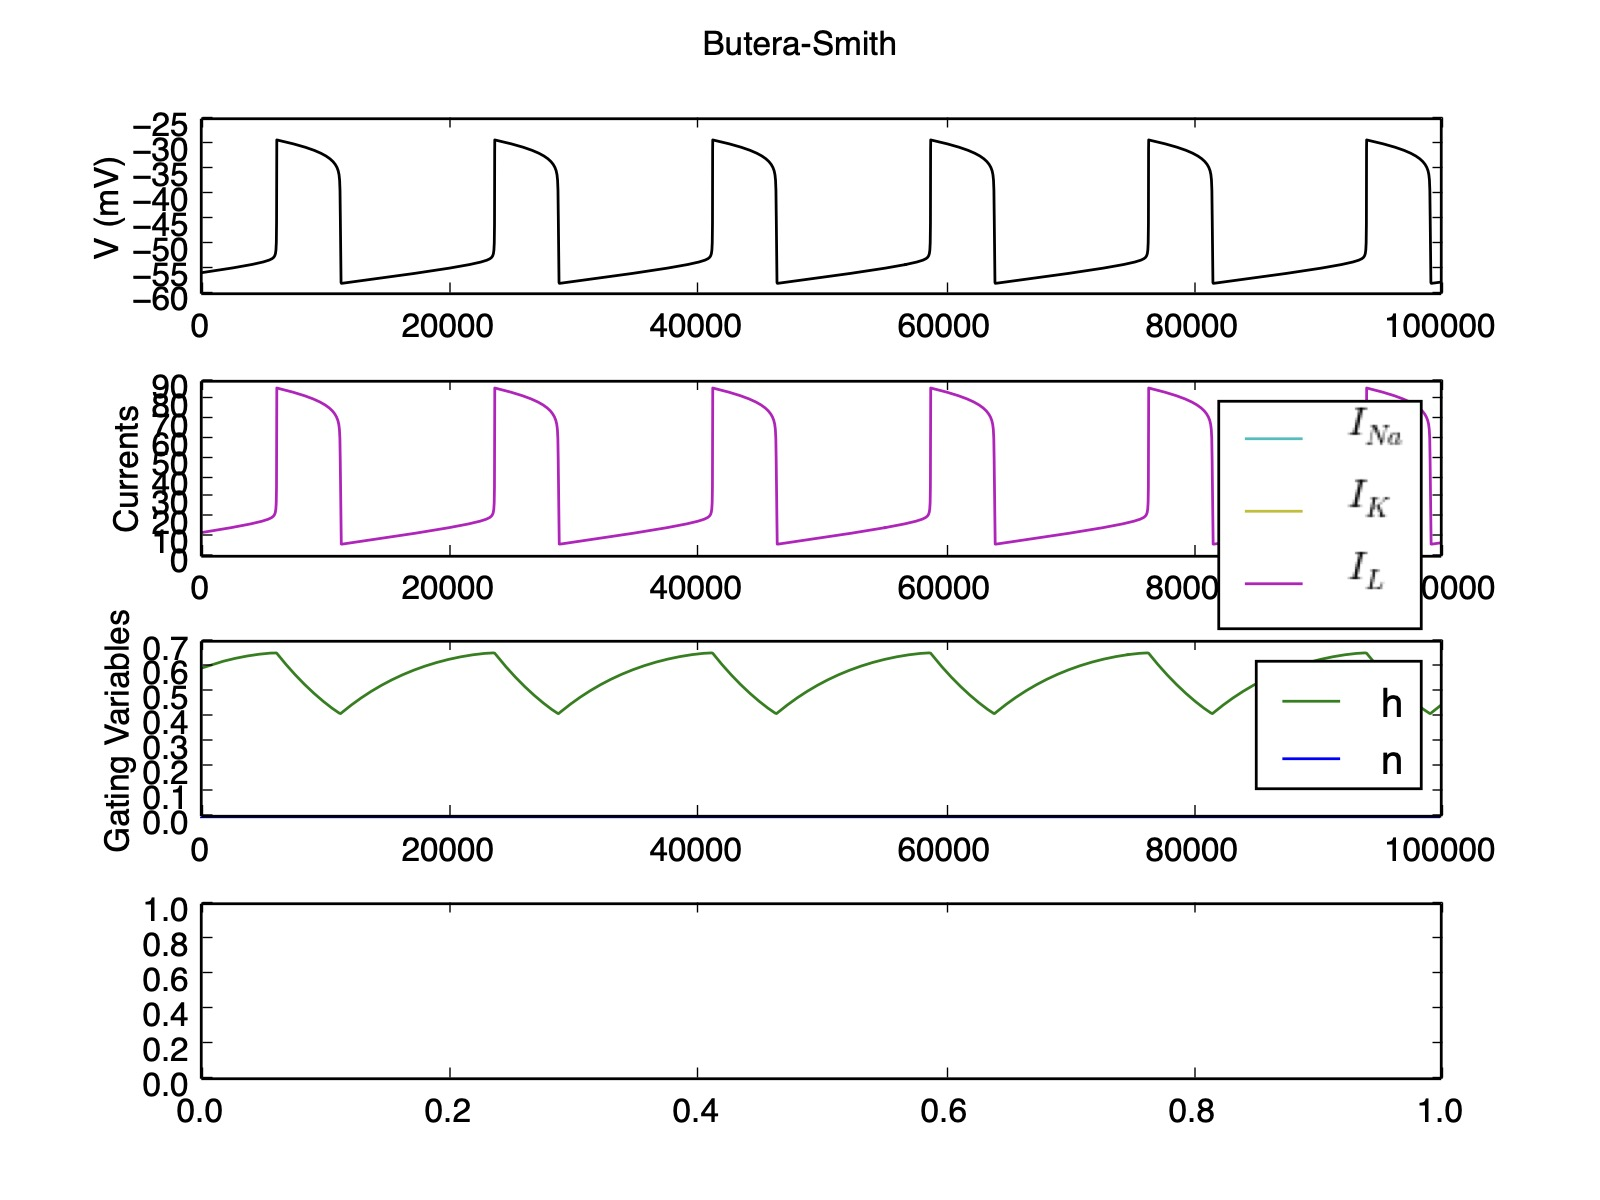
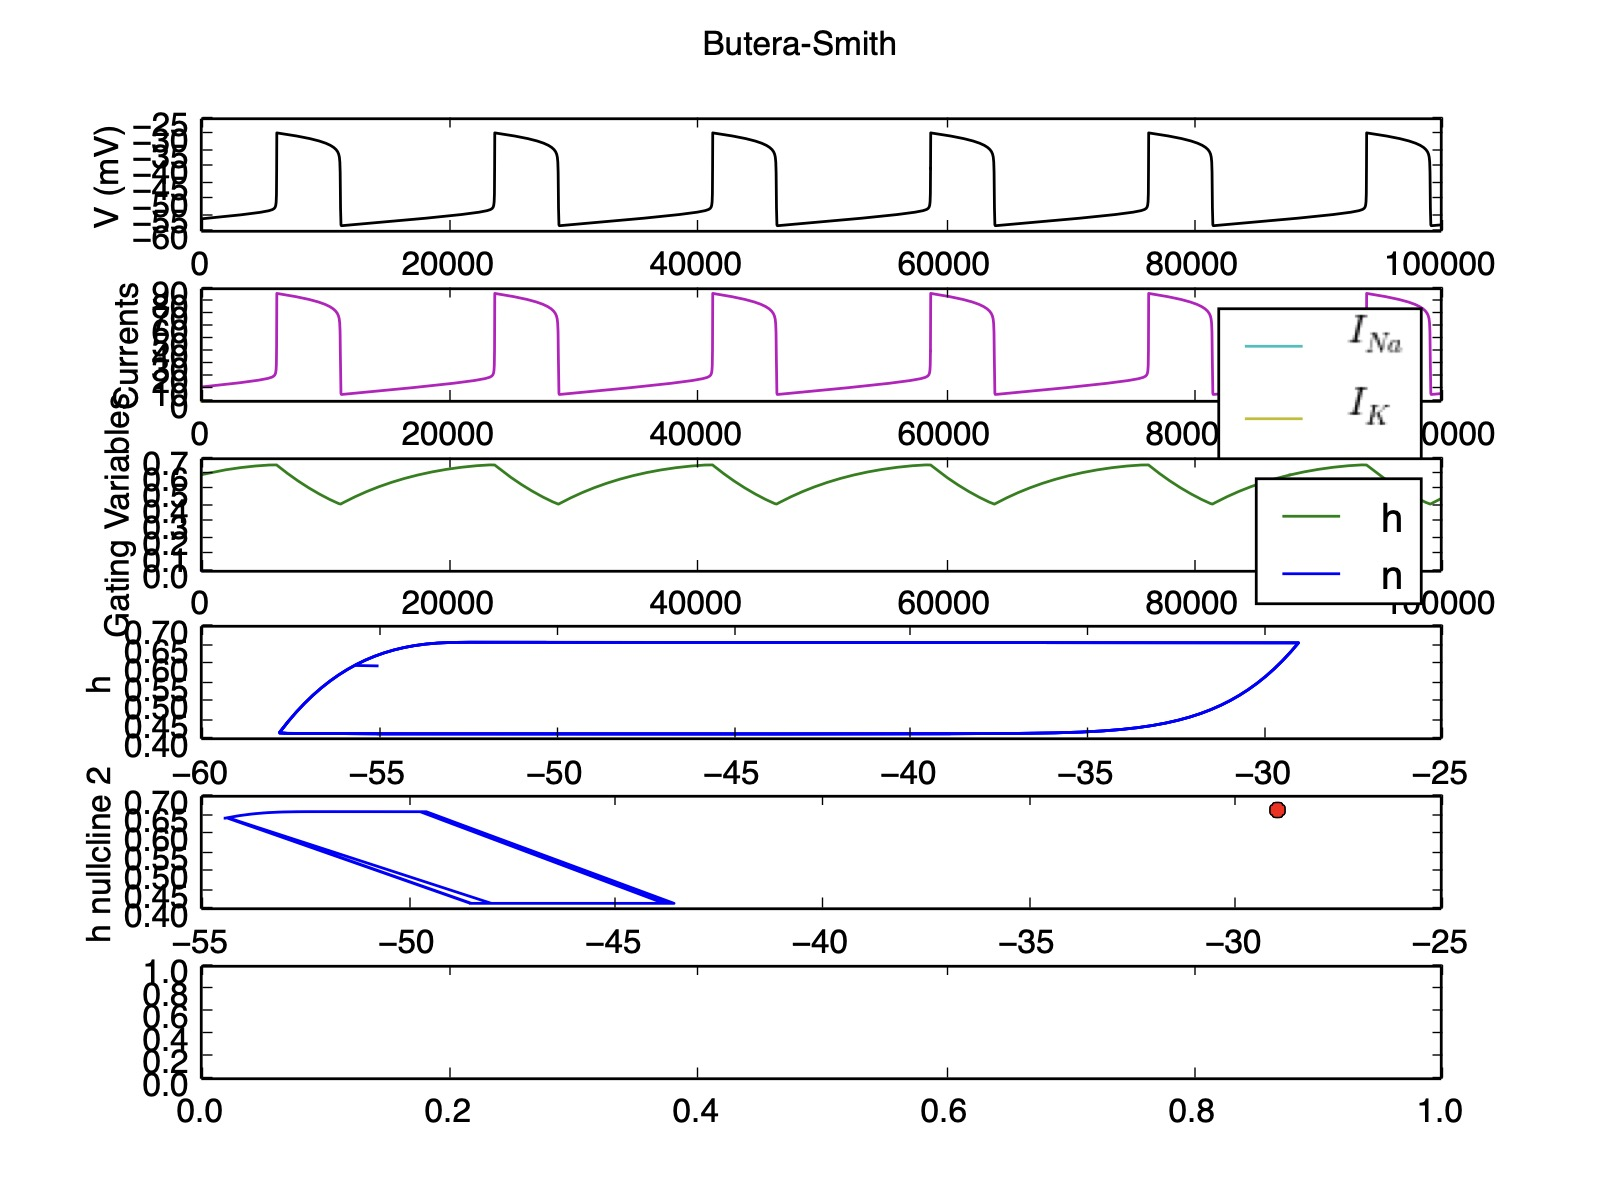
added nullclines

diff --git a/PS2.py b/PS2.py
@@ -1,13 +1,19 @@
-from operator import is_
 import numpy as np
 import matplotlib.pyplot as plt
 from scipy.integrate import odeint
 
 class ButeraSmith():
 
-    def __init__(self, tmax, el, is_reduction):
+    def __init__(self, tmax, el, is_reduction, is_plotting_phase_plane):
         self.is_reduction = is_reduction
+        self.is_plotting_phase_plane = is_plotting_phase_plane
         self.tmax = tmax
+
+        self.v_nullcline_1 = []
+        self.h_nullcline_1 = []
+
+        self.v_nullcline_2 = []
+        self.h_nullcline_2 = []
 
         """Full Butera-Smith Model implemented in Python"""
 
@@ -15,7 +21,7 @@ class ButeraSmith():
         """membrane capacitance, in uF/cm^2"""
 
         self.gna = 28.0
-        if is_reduction: self.gna = 0
+        if self.is_reduction: self.gna = 0
         """Sodium (Na) maximum conductance, in mS/cm^2"""
 
         self.gk  =  11.2
@@ -160,6 +166,14 @@ class ButeraSmith():
         dndt = (self.ninf(v) - n) / self.taun(v)
         dhdt = (self.hinf(v) - h) / self.tauh(v)
 
+        if  -.00001 < dvdt < .00001:
+            self.v_nullcline_1.append(v)
+            self.h_nullcline_1.append(h)
+
+        if  -.00001 < dhdt < .00001:
+            self.v_nullcline_2.append(v)
+            self.h_nullcline_2.append(h)
+
         # dVdt = (self.I_inj(t) - self.I_Na(V, m, h) - self.I_K(V, n) - self.I_L(V)) / self.C_m
         # dmdt = self.alpha_m(V)*(1.0-m) - self.beta_m(V)*m
         # dhdt = self.alpha_h(V)*(1.0-h) - self.beta_h(V)*h
@@ -183,7 +197,9 @@ class ButeraSmith():
         ik = self.ik(V, n)
         il = self.il(V)
 
-        fig, axs = plt.subplots(4)
+
+        # if not self.is_plotting_phase_plane:
+        fig, axs = plt.subplots(6)
         fig.suptitle('Butera-Smith')
         fig.subplots_adjust(hspace=.5)
         axs[0].plot(self.t, V, 'k')
@@ -201,6 +217,14 @@ class ButeraSmith():
         # i_inj_values = [self.I_inj(t) for t in self.t]
         # axs[3].plot(self.t, i_inj_values, 'k')
         # axs[3].set(xlabel='t (ms)',ylabel='$I_{inj}$ ($\\mu{A}/cm^2$)')
+        axs[3].plot(V, h)
+        axs[3].set(xlabel='V (mv)', ylabel='h')
+
+        axs[4].plot(self.v_nullcline_1, self.h_nullcline_1, 'ro')
+        axs[4].set(xlabel='V nullcline 1 (mv)', ylabel='h nullcline 1')
+
+        axs[4].plot(self.v_nullcline_2, self.h_nullcline_2, '-')
+        axs[4].set(xlabel='V nullcline 2 (mv)', ylabel='h nullcline 2')
 
         plt.savefig('BS-I10.jpg', format = 'jpg')
 
@@ -208,11 +232,10 @@ class ButeraSmith():
 
 
 
-
 if __name__ == '__main__':
     # runner = ButeraSmith(tmax=10000.0, el=-65.0, is_reduction=False)
     # runner.Main()
-    runner = ButeraSmith(tmax=100000.0, el=-60.0, is_reduction=True)
+    runner = ButeraSmith(tmax=100000.0, el=-60.0, is_reduction=True, is_plotting_phase_plane=True)
     runner.Main()
     # runner = ButeraSmith(tmax=1000.0, el=-65.0, is_reduction=False)
     # runner.Main()
